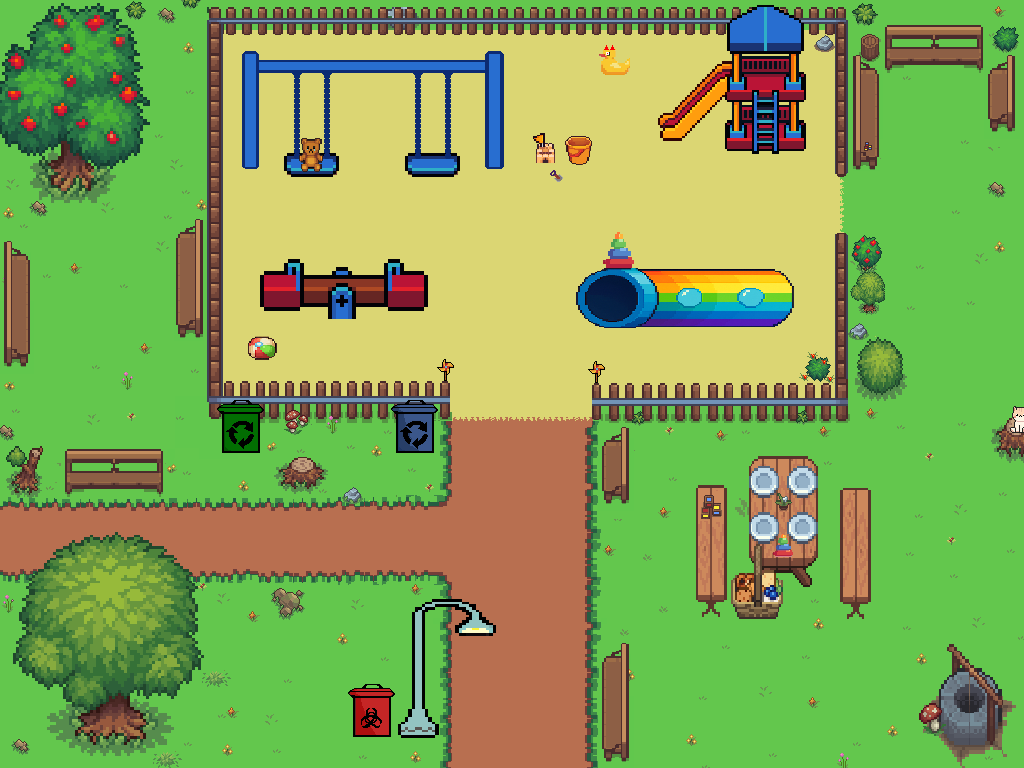
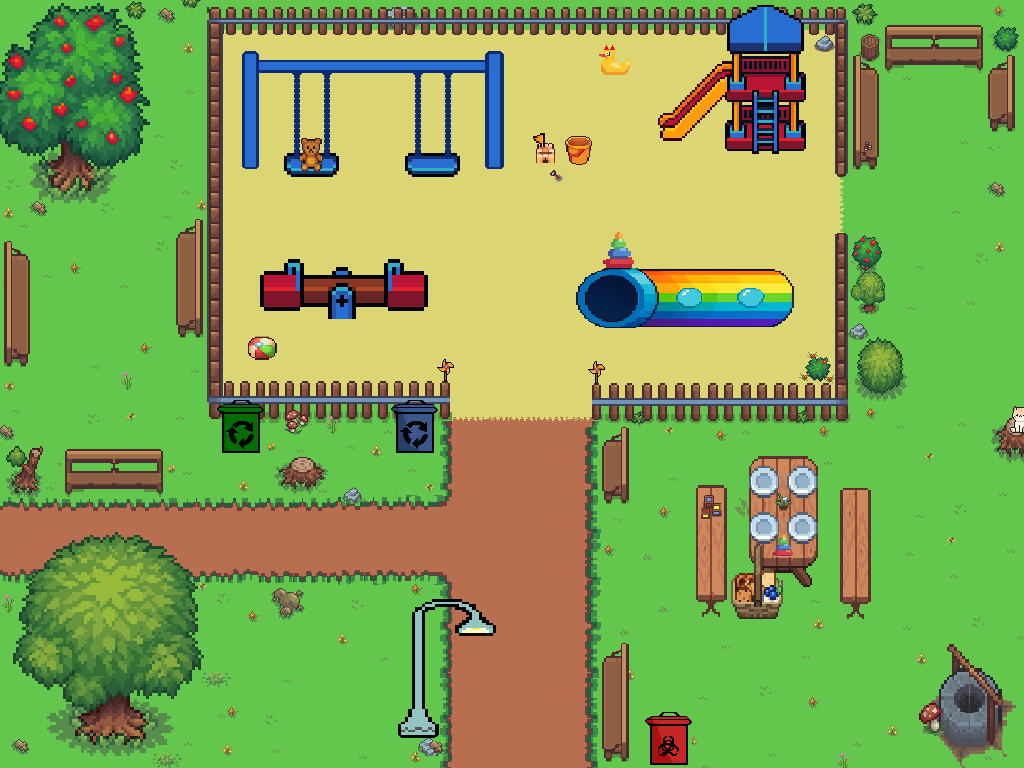
Se cambio de lugar el bote rojo y se agregaron fondos

Changed region(s): [[0.3438, 0.875, 0.4375, 1.0], [0.625, 0.9062, 0.6875, 1.0]]

diff --git a/nivel_2.py b/nivel_2.py
@@ -64,6 +64,23 @@ def run_level2():
     capa_arbol45 = pygame.image.load("assets_PI/diseyo_nivel/nivel 2/fondos/arb45.png").convert_alpha()
     capa_arbol46 = pygame.image.load("assets_PI/diseyo_nivel/nivel 2/fondos/arb46.png").convert_alpha()
 
+    #lampara
+    capa_lampara1 = pygame.image.load("assets_PI/diseyo_nivel/nivel 2/lampara/lampara1.png").convert_alpha()
+    capa_lampara2 = pygame.image.load("assets_PI/diseyo_nivel/nivel 2/lampara/lampara2.png").convert_alpha()
+    capa_lampara3 = pygame.image.load("assets_PI/diseyo_nivel/nivel 2/lampara/lampara3.png").convert_alpha()
+    capa_lampara4 = pygame.image.load("assets_PI/diseyo_nivel/nivel 2/lampara/lampara4.png").convert_alpha()
+    capa_lampara5 = pygame.image.load("assets_PI/diseyo_nivel/nivel 2/lampara/lampara5.png").convert_alpha()
+    capa_lampara6 = pygame.image.load("assets_PI/diseyo_nivel/nivel 2/lampara/lampara6.png").convert_alpha()
+    capa_lampara7 = pygame.image.load("assets_PI/diseyo_nivel/nivel 2/lampara/lampara7.png").convert_alpha()
+    capa_lampara8 = pygame.image.load("assets_PI/diseyo_nivel/nivel 2/lampara/lampara8.png").convert_alpha()
+    capa_lampara9 = pygame.image.load("assets_PI/diseyo_nivel/nivel 2/lampara/lampara9.png").convert_alpha()
+    capa_lampara10 = pygame.image.load("assets_PI/diseyo_nivel/nivel 2/lampara/lampara10.png").convert_alpha()
+    capa_lampara11 = pygame.image.load("assets_PI/diseyo_nivel/nivel 2/lampara/lampara11.png").convert_alpha()
+    capa_lampara12 = pygame.image.load("assets_PI/diseyo_nivel/nivel 2/lampara/lampara12.png").convert_alpha()
+    capa_lampara13 = pygame.image.load("assets_PI/diseyo_nivel/nivel 2/lampara/lampara13.png").convert_alpha()
+    capa_lampara14 = pygame.image.load("assets_PI/diseyo_nivel/nivel 2/lampara/lampara14.png").convert_alpha()
+    capa_lampara15 = pygame.image.load("assets_PI/diseyo_nivel/nivel 2/lampara/lampara15.png").convert_alpha()
+    capa_lampara16 = pygame.image.load("assets_PI/diseyo_nivel/nivel 2/lampara/lampara16.png").convert_alpha()
     
    
     # Pantalla de victoria y barras de vida
@@ -150,16 +167,16 @@ def run_level2():
     basura = [
         {"imagen": platano, "rect": platano.get_rect(topleft=(825, 621)), "nombre": "Plátano", "tipo": "organica"},
         {"imagen": agua, "rect": agua.get_rect(topleft=(552, 46)), "nombre": "Botella de agua", "tipo": "inorganica"},
-        {"imagen": foco, "rect": foco.get_rect(topleft=(420, 640)), "nombre": "Foco", "tipo": "peligrosa"},
+        {"imagen": foco, "rect": foco.get_rect(topleft=(463, 681)), "nombre": "Foco", "tipo": "peligrosa"},
         {"imagen": lata, "rect": lata.get_rect(topleft=(954, 74)), "nombre": "Lata", "tipo": "inorganica"},
         {"imagen": manzana, "rect": manzana.get_rect(topleft=(107, 193)), "nombre": "Manzana", "tipo": "organica"},
-        {"imagen": bateria, "rect": bateria.get_rect(topleft=(50, 600)), "nombre": "Batería", "tipo": "peligrosa"},
+        {"imagen": bateria, "rect": bateria.get_rect(topleft=(287, 325)), "nombre": "Batería", "tipo": "peligrosa"},
     ]
 
     botes = [
         {"nombre": "Inorganico", "tipo": "inorganica", "rect": pygame.Rect(386, 403, 53, 28)},
         {"nombre": "Organico", "tipo": "organica", "rect": pygame.Rect(215, 400, 54, 24)},
-        {"nombre": "Residuos peligrosos", "tipo": "peligrosa", "rect": pygame.Rect(346, 687, 52, 29)}
+        {"nombre": "Residuos peligrosos", "tipo": "peligrosa", "rect": pygame.Rect(648, 710, 30, 36)}
     ]
 
     colisiones = [
@@ -180,7 +197,13 @@ def run_level2():
         #mesa para comer?
         pygame.Rect(702, 494, 18, 83), pygame.Rect(737, 529, 86, 10), pygame.Rect(850, 495, 12, 93), pygame.Rect(758, 456, 50, 25),
         #arboles y arbustos
-        pygame.Rect(22, 83, 107, 60), pygame.Rect(88, 640, 45, 49)
+        pygame.Rect(22, 83, 107, 60), pygame.Rect(88, 640, 45, 49),
+        #lampara
+        pygame.Rect(415, 699, 7, 8),
+        #juegos de los niños
+        pygame.Rect(604, 268, 151, 26),
+        #bote peligro
+        pygame.Rect(648, 710, 30, 36)
     ]
 
     # -----------------------------
@@ -680,7 +703,23 @@ def run_level2():
         screen.blit(capa_arbol44, (47, 687))
         screen.blit(capa_arbol45, (59, 684))
         screen.blit(capa_arbol46, (32, 675))
-
+        #fondo lampara
+        screen.blit(capa_lampara1, (412, 612))
+        screen.blit(capa_lampara2, (415, 607))
+        screen.blit(capa_lampara3, (422, 604))
+        screen.blit(capa_lampara4, (432, 599))
+        screen.blit(capa_lampara5, (425, 602))
+        screen.blit(capa_lampara6, (455, 602))
+        screen.blit(capa_lampara7, (462, 604))
+        screen.blit(capa_lampara8, (466, 610))
+        screen.blit(capa_lampara9, (469, 612)) 
+        screen.blit(capa_lampara10, (466, 617))
+        screen.blit(capa_lampara11, (462, 620))
+        screen.blit(capa_lampara12, (459, 623))
+        screen.blit(capa_lampara13, (455, 625))
+        screen.blit(capa_lampara14, (459, 633))
+        screen.blit(capa_lampara15, (408, 709))
+        screen.blit(capa_lampara16, (405, 717))
 
    
         # Mensaje
